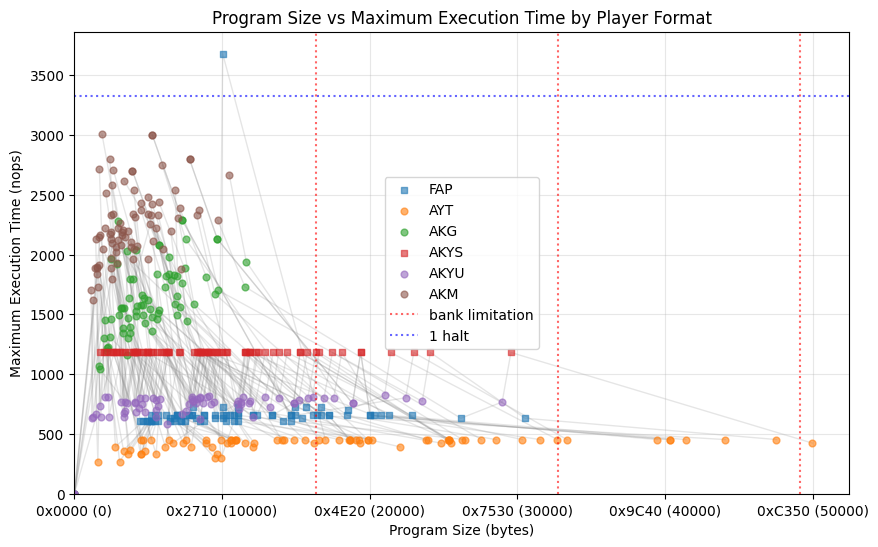
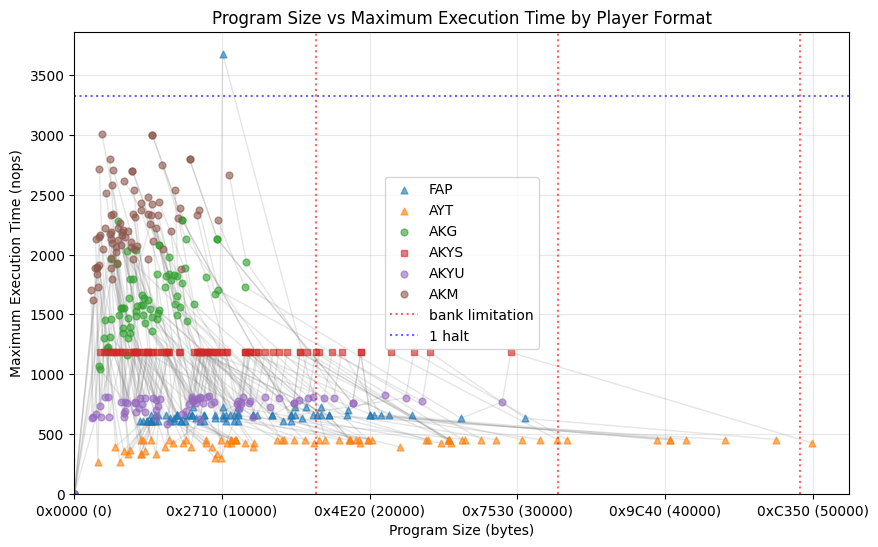
Rework the markers depending on the type of players

diff --git a/utils.py b/utils.py
@@ -162,18 +162,14 @@ def draw_pareto_front(
         except Exception:
             PlayerFormat = None  # fallback if import fails
 
-        def _is_stable(row) -> bool:
-            if PlayerFormat is None:
-                return False
-            try:
-                if "player" in row:
-                    return PlayerFormat[row["player"].upper()].is_stable()
-                if "format" in row:
-                    fmt_val = row["format"]
-                    return PlayerFormat.get_format(fmt_val).is_stable()
-            except Exception:
-                return False
-            return False
+        def player_marker(row) -> str:
+            if "player" in row:
+                player_format = PlayerFormat[row["player"].upper()].is_music_stable()
+            if "format" in row:
+                fmt_val = row["format"]
+                player_format = PlayerFormat.get_format(fmt_val).is_music_stable()
+            return player_format
+
 
         # Draw the line connecting Pareto points
         line_label = "Pareto Front" if include_label else None
@@ -189,7 +185,7 @@ def draw_pareto_front(
         # Draw the points with marker based on stability
         point_label = "Pareto Points" if include_label else None
         for _, row in pareto_df.iterrows():
-            marker = "s" if _is_stable(row) else "o"
+            marker = player_marker(row)
             ax.scatter(
                 row[x_col],
                 row[y_col],

diff --git a/plots.py b/plots.py
@@ -143,11 +143,9 @@ def plot_scatter_tracks(
     for fmt in ordered_extensions:
         format_data = df[df["format"] == fmt]
         # Use square marker for stable players, circle for others
-        try:
-            player_format = PlayerFormat.get_format(fmt)
-            marker = "s" if player_format.is_stable() else "o"
-        except Exception:
-            marker = "o"
+
+        player_format = PlayerFormat.get_format(fmt)
+        marker = player_format.get_plot_marker()
 
         # Scatter for this format (always run regardless of PlayerFormat lookup)
         ax.scatter(
@@ -228,11 +226,9 @@ def plot_scatter_median(
     for _, row in player_df.iterrows():
         color = format_colors.get(row["format"]) if format_colors else "C0"
         # Use square marker for stable players, circle for others
-        try:
-            player_format = PlayerFormat.get_format(row["format"])
-            marker = "s" if player_format.is_stable() else "o"
-        except Exception:
-            marker = "o"
+        player_format = PlayerFormat.get_format(row["format"])
+        marker = player_format.get_plot_marker()
+
         # Always create the scatter point and record its handle
         sc = ax.scatter(
             row["prog_size"],

diff --git a/players.py b/players.py
@@ -115,9 +115,28 @@ class PlayerFormat(enum.Enum):
     def load_address(self):
         return 0x500
 
-    def is_stable(self) -> bool:
-        """Return True if the player format has stable/constant CPU consumption."""
-        return self in (PlayerFormat.AKYS, PlayerFormat.AYC, PlayerFormat.FAP)
+    def is_music_stable(self) -> bool:
+        """Return True if the player format has stable/constant CPU consumption.
+        The duration is music dependent.
+        """
+        return self in (PlayerFormat.AYC, PlayerFormat.FAP, PlayerFormat.AYT)
+    
+    def is_player_stable(self) -> bool:
+        """Return True if the player format has stable/constant CPU consumption.
+        The duration is the same whatever is the music.
+        """
+        return self in (PlayerFormat.AKYS, )
+    
+    def get_plot_marker(self) -> str:
+        if self.is_player_stable():
+            marker = "s"
+        elif self.is_music_stable():
+            marker = "^"
+        else:
+            marker = "o"
+
+        print(self, marker)
+        return marker
 
 
 def crunch_music_file(input_file: str, output_file: str, format: PlayerFormat) -> dict:

diff --git a/music_bench.py b/music_bench.py
@@ -171,7 +171,7 @@ def _plot_pareto_scatter(
             )
             if player_format is None:
                 raise KeyError(f"Unknown player format: {row['player']}")
-        marker = "s" if player_format.is_stable() else "o"
+        marker = player_format.get_marker_style()
         ax.scatter(
             row["program_size"],
             row["nops_exec_max"],
